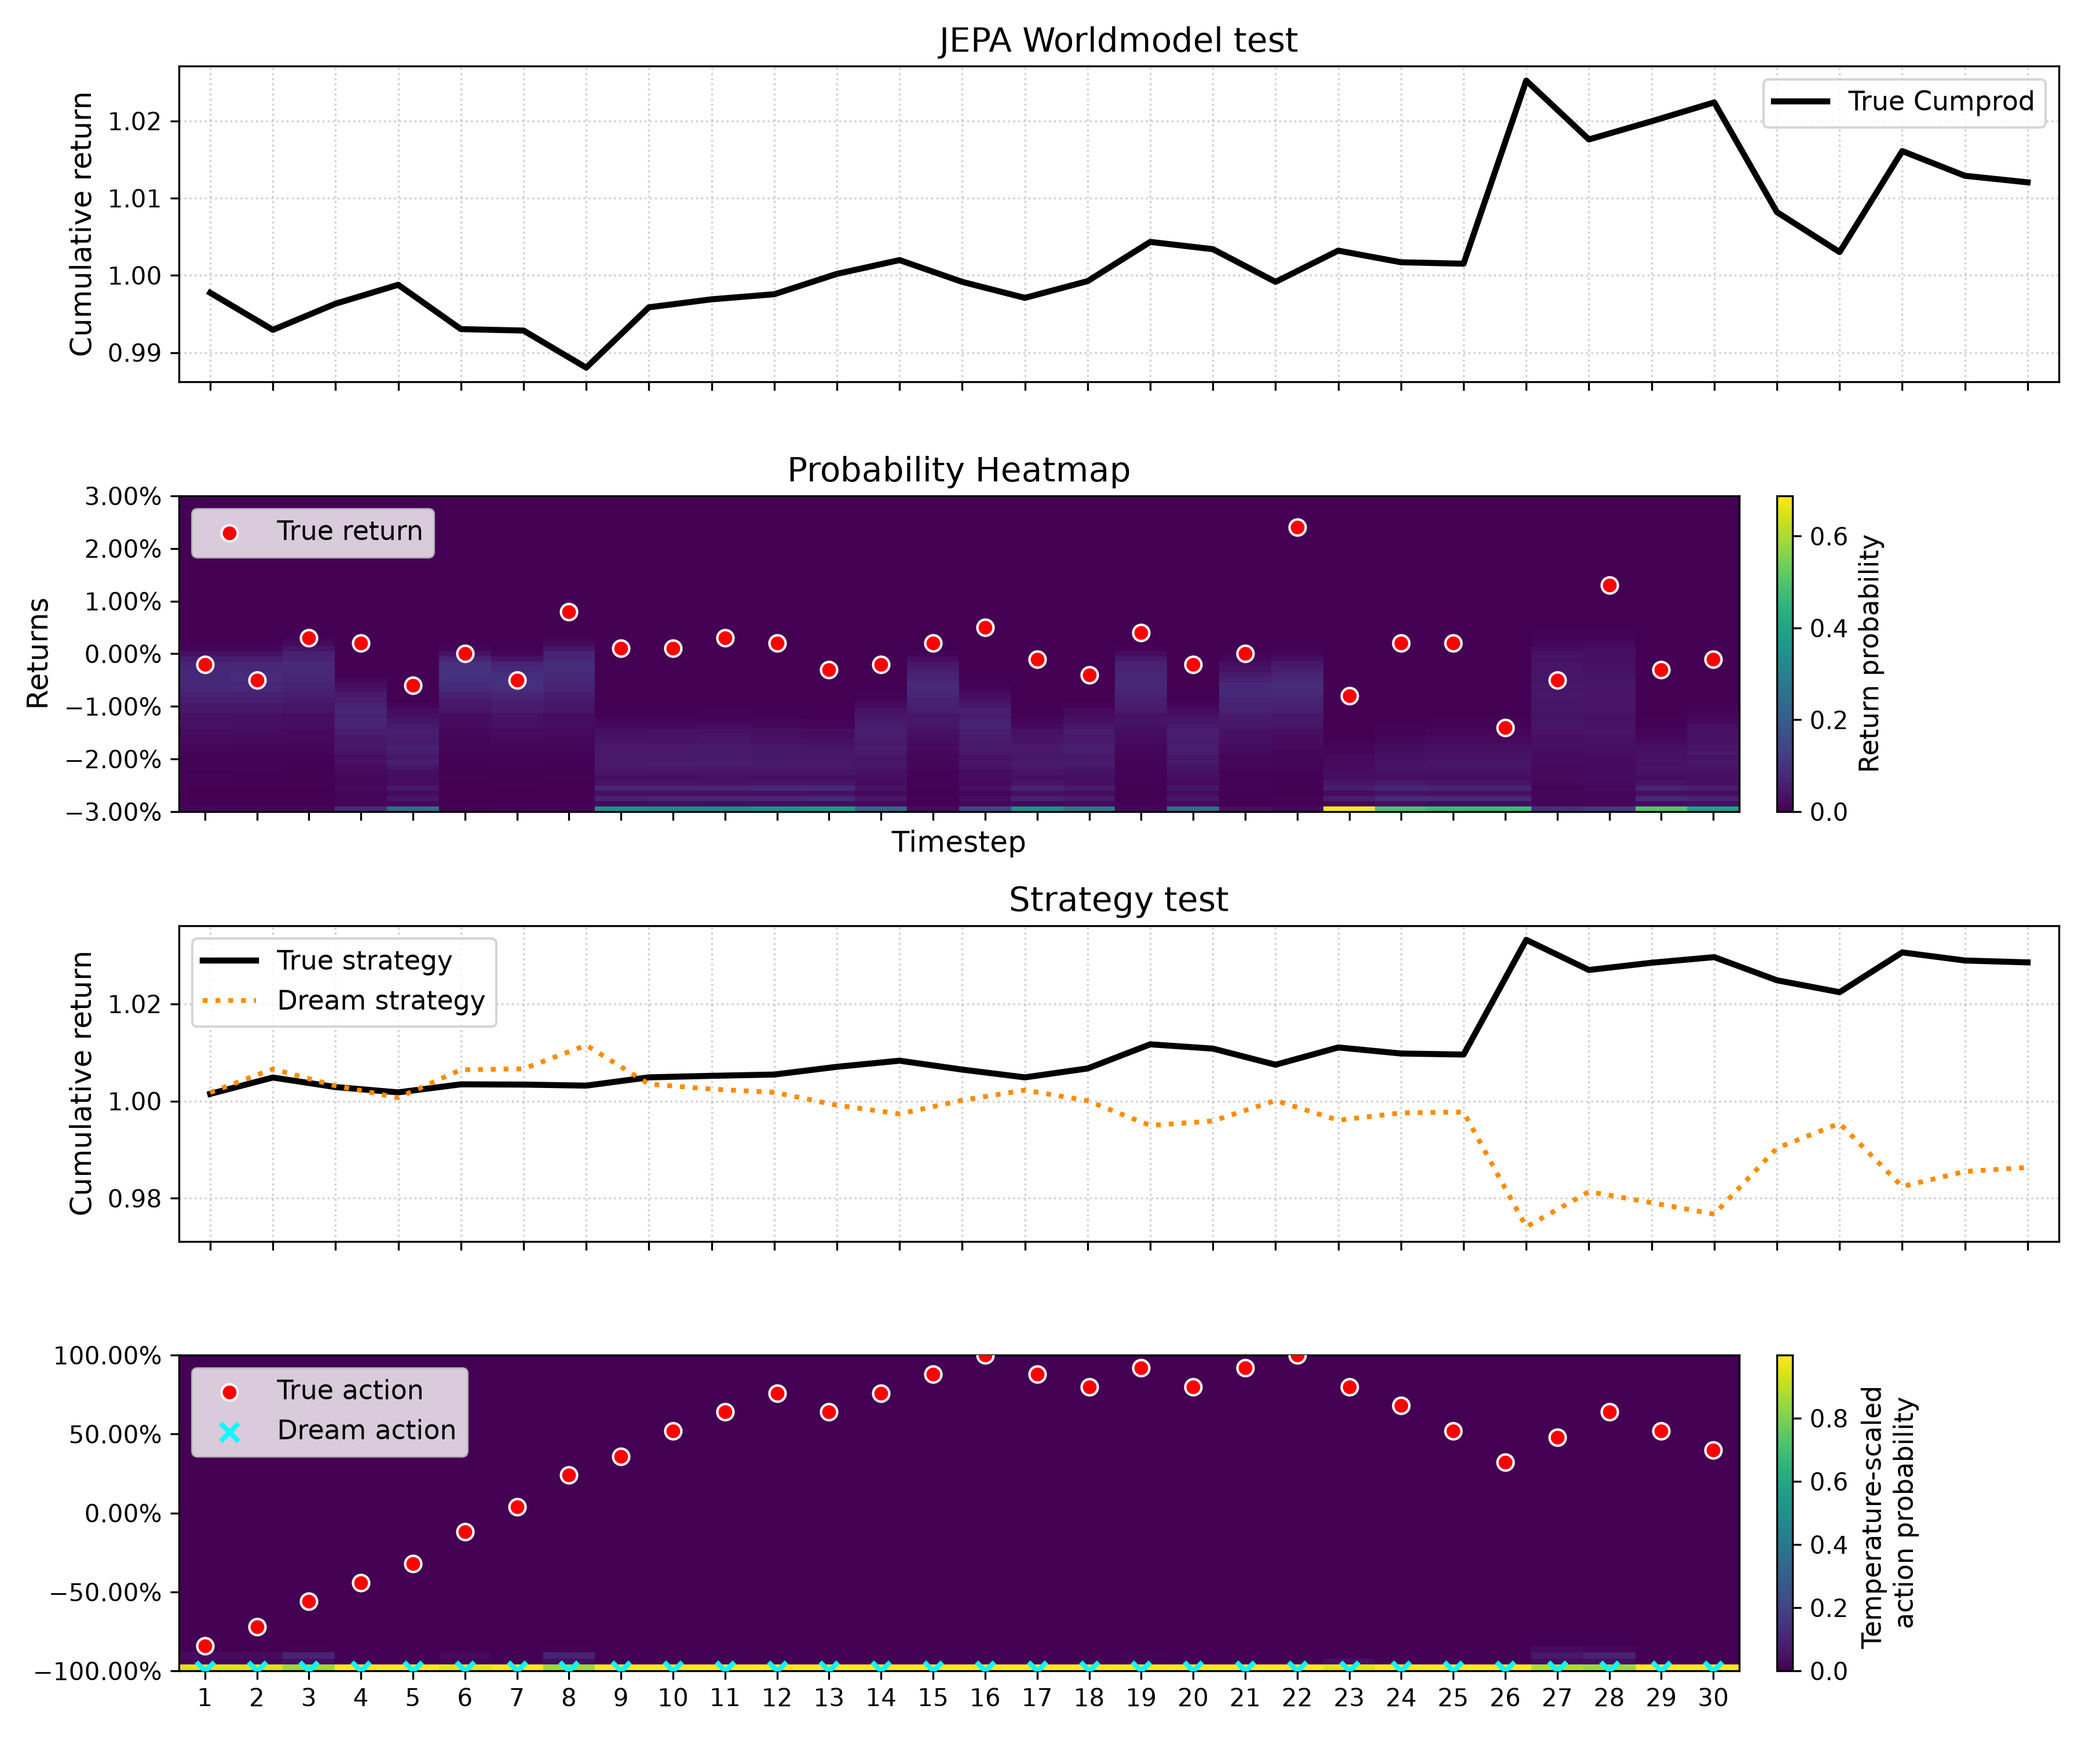
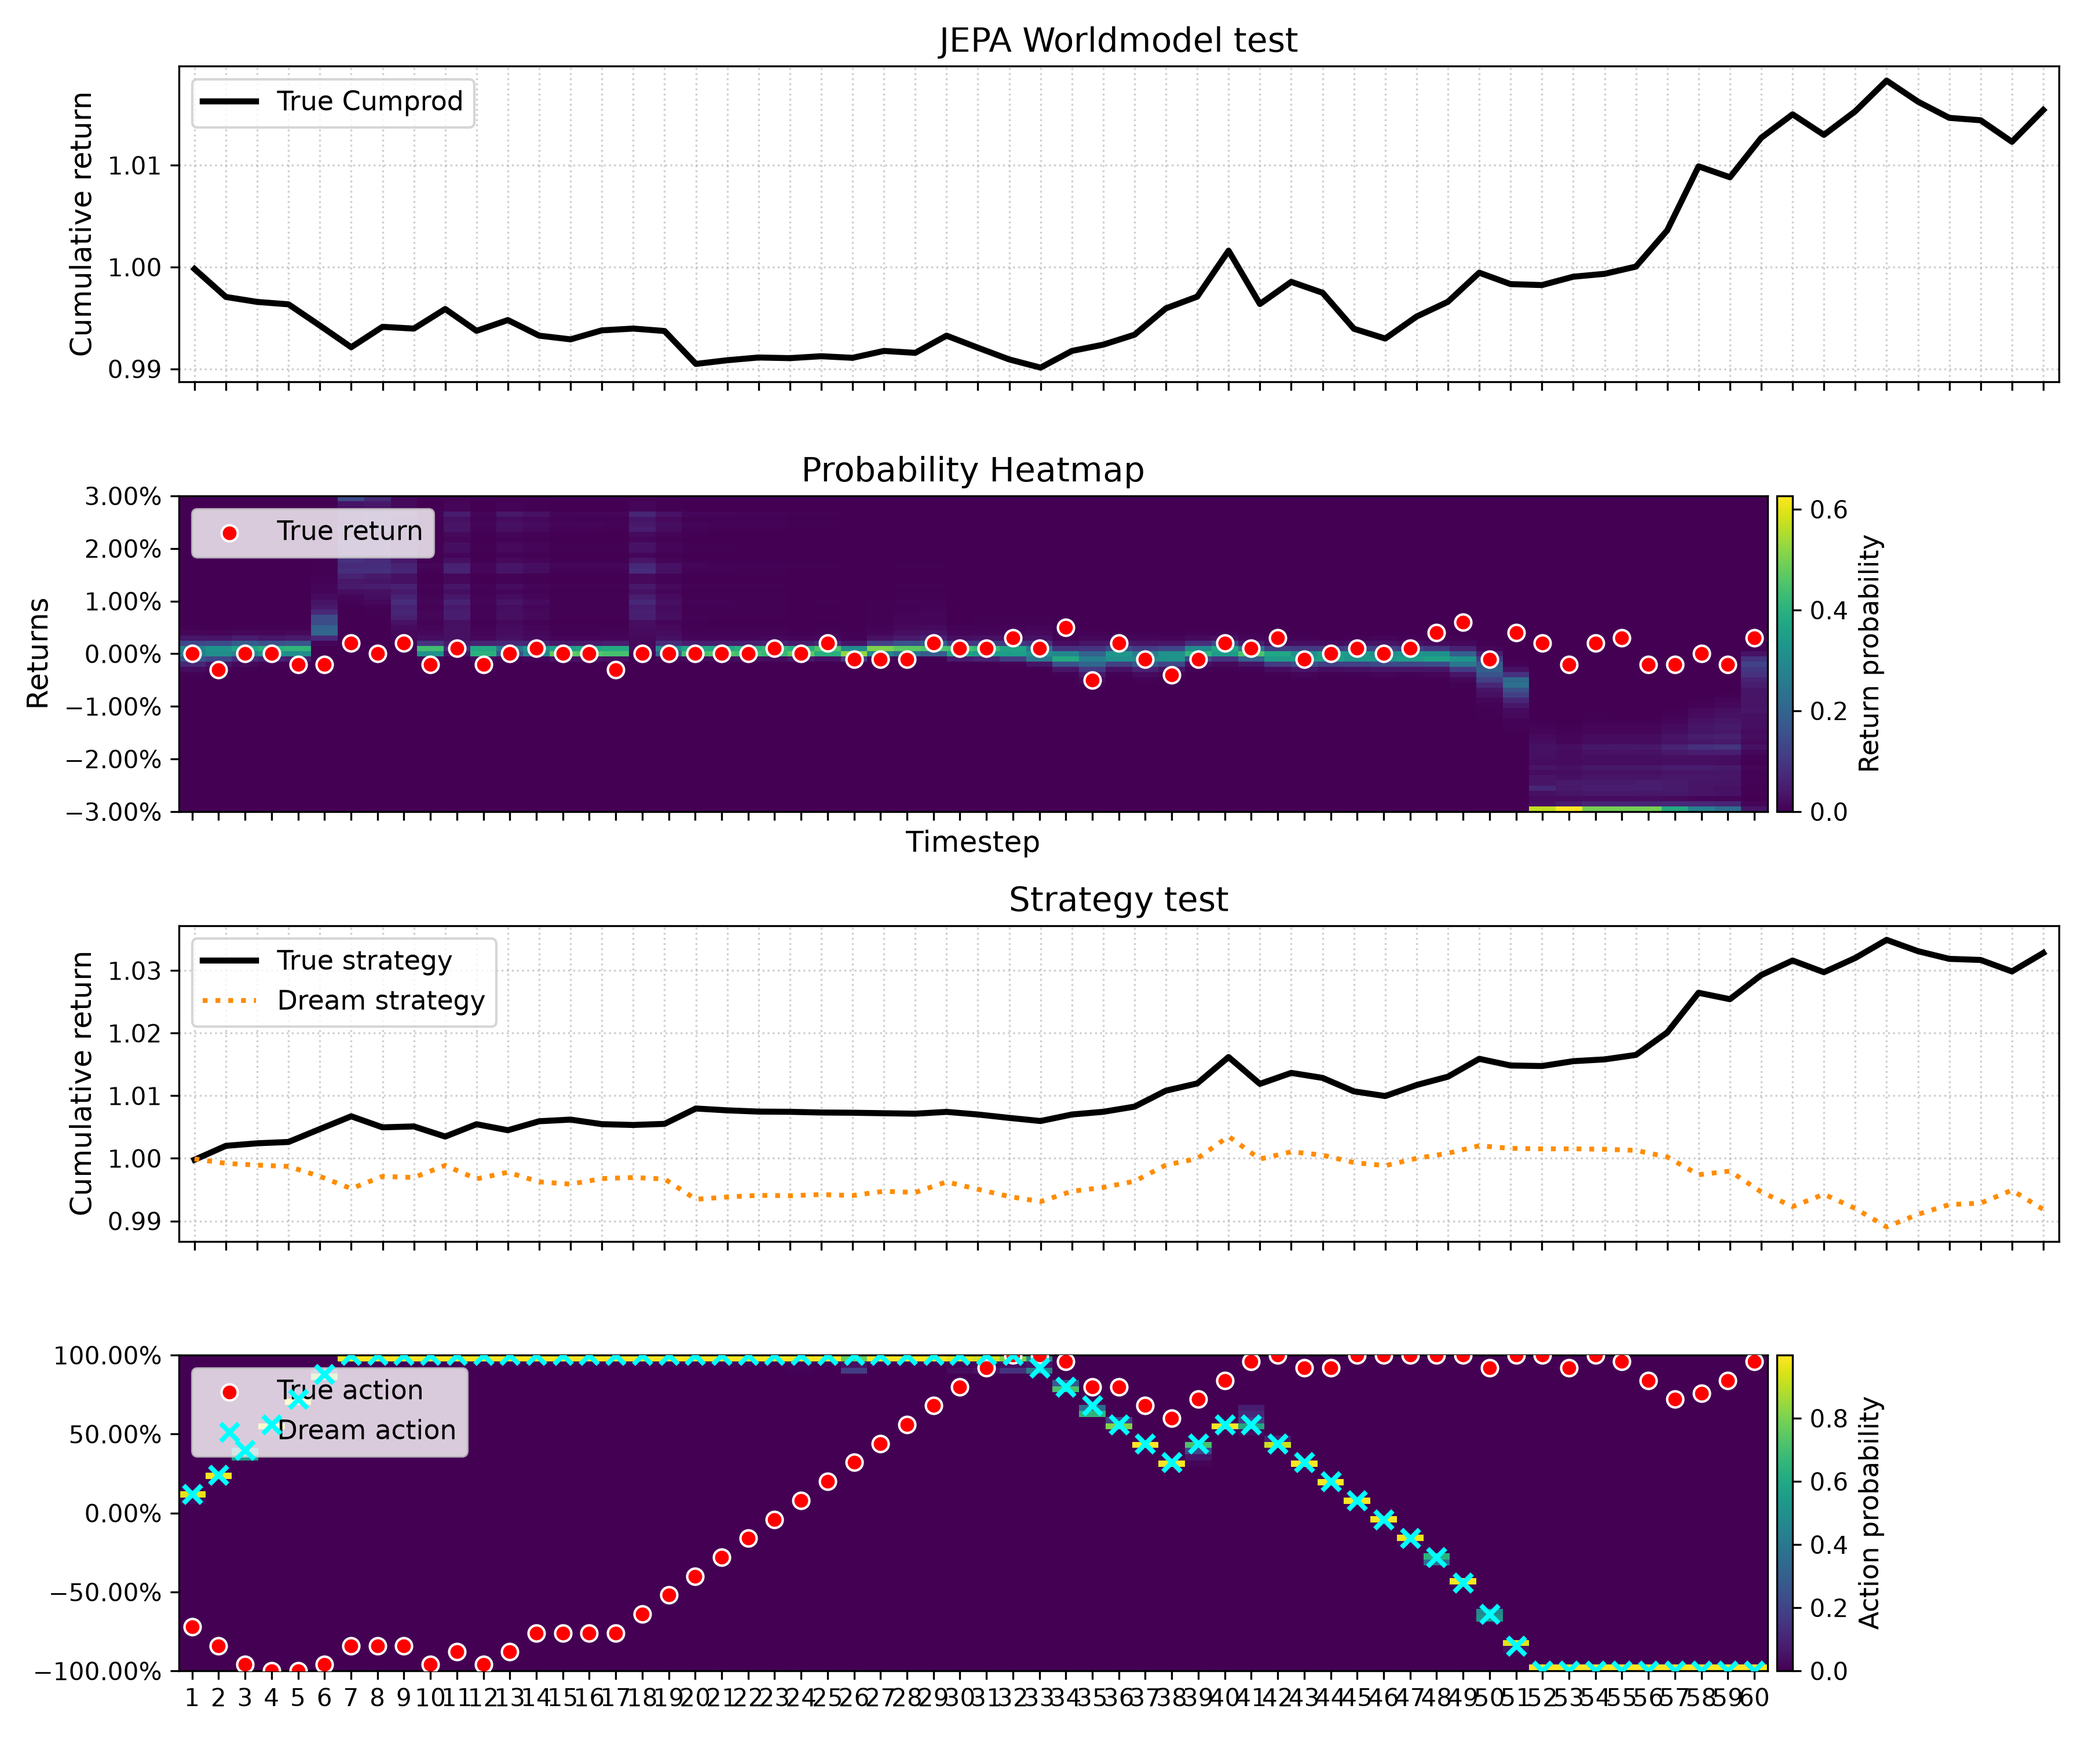
Updates

diff --git a/src/main.py b/src/main.py
@@ -2,6 +2,7 @@ import lightning as L
 import wandb
 import argparse
 import logging
+import os
 from omegaconf import OmegaConf
 from lightning.pytorch.loggers import WandbLogger
 from torch.utils.data import DataLoader
@@ -12,56 +13,85 @@ from jepa import JEPA, JEPA_AR
 from data import CryptoDataset
 from util import set_logger
 
-def pre_train(cfg):
+def pre_train(cfg, resume=False):
     load_dotenv()
     wandb.login()
 
     logger = logging.getLogger(cfg['experiment_name'])
     logger.info('Starting JEPA training')
 
-    train_dataset = CryptoDataset(cfg, mode = 'training')
-    val_dataset = CryptoDataset(cfg, mode = 'validation')
+    train_dataset = CryptoDataset(cfg, mode='training')
+    val_dataset = CryptoDataset(cfg, mode='validation')
 
-    train_loader = DataLoader(train_dataset, 
-                              batch_size = cfg['jepa']['training']['batch_size'],
-                              shuffle = True,
-                              num_workers = 3)
-    val_loader = DataLoader(val_dataset, 
-                              batch_size = cfg['jepa']['training']['batch_size'],
-                              shuffle = False,
-                              num_workers = 3)
-    
+    train_loader = DataLoader(
+        train_dataset,
+        batch_size=cfg['jepa']['training']['batch_size'],
+        shuffle=True,
+        num_workers=3,
+        persistent_workers=True,
+    )
+
+    val_loader = DataLoader(
+        val_dataset,
+        batch_size=cfg['jepa']['training']['batch_size'],
+        shuffle=False,
+        num_workers=3,
+        persistent_workers=True,
+    )
+
     model = JEPA(cfg)
     logger.info(f'Model architecture: {model}')
 
     wandb_logger = WandbLogger(
-            entity='rudyhuy',
-            project='jepa',
-            name=cfg['jepa']['name'],
-        )    
+        entity='rudyhuy',
+        project='jepa',
+        name=cfg['jepa']['name'],
+    )
+
+    checkpoint_dir = f"./models/jepa/{cfg['jepa']['name']}/"
 
     checkpoint_callback = ModelCheckpoint(
-        dirpath=f"./models/jepa/{cfg['jepa']['name']}/", 
+        dirpath=checkpoint_dir,
         filename="jepa",
         monitor="val/loss",
         mode="min",
         save_top_k=1,
-        save_last=True
+        save_last=True,
     )
 
     lr_monitor = LearningRateMonitor(logging_interval='step')
 
     trainer = L.Trainer(
-        max_epochs = cfg['jepa']['training']['epochs'],
-        accelerator = "auto", 
-        devices = "auto",
-        gradient_clip_val = 1.0,
-        logger = wandb_logger,
-        callbacks = [checkpoint_callback, lr_monitor],
-        log_every_n_steps = cfg['jepa']['training']['log_every_n_steps']
+        max_epochs=cfg['jepa']['training']['epochs'],
+        accelerator="auto",
+        devices="auto",
+        gradient_clip_val=1.0,
+        logger=wandb_logger,
+        callbacks=[checkpoint_callback, lr_monitor],
+        log_every_n_steps=cfg['jepa']['training']['log_every_n_steps'],
     )
 
-    trainer.fit(model, train_dataloaders=train_loader, val_dataloaders=val_loader)
+    # Resume from the last checkpoint if requested
+    ckpt_path = None
+
+    if resume:
+        ckpt_path = f"{checkpoint_dir}/last.ckpt"
+
+        if not os.path.exists(ckpt_path):
+            logger.warning(
+                f"Resume requested, but checkpoint does not exist: {ckpt_path}"
+            )
+            ckpt_path = None
+        else:
+            logger.info(f"Resuming training from: {ckpt_path}")
+
+    trainer.fit(
+        model,
+        train_dataloaders=train_loader,
+        val_dataloaders=val_loader,
+        ckpt_path=ckpt_path,
+    )
+
 
 def ar_train(cfg):
     load_dotenv()
@@ -104,7 +134,7 @@ def ar_train(cfg):
     lr_monitor = LearningRateMonitor(logging_interval='step')
 
     trainer = L.Trainer(
-        max_epochs = cfg['jepa']['training']['epochs'],
+        max_epochs = cfg['jepa']['ar_training']['epochs'],
         accelerator = "auto", 
         devices = "auto",
         gradient_clip_val = 1.0,
@@ -130,15 +160,19 @@ def main():
         choices=["pre-train", "ar-train"],
         help="Vælg 'pre-train' for initial træning eller 'ar-train' for post-træning.",
     )
+    parser.add_argument(
+        "--resume",
+        action="store_true",
+        help="Resume training from the last checkpoint.",
+    )
 
     args = parser.parse_args()
 
     if args.mode == "pre-train":
-        pre_train(cfg)
+        pre_train(cfg, resume=args.resume)
 
     elif args.mode == "ar-train":
         ar_train(cfg)
-
 
 if __name__ == "__main__":
     main()

diff --git a/src/jepa.py b/src/jepa.py
@@ -233,8 +233,7 @@ class JEPA(L.LightningModule):
 
         Z_prompt = Z[:, :start_idx+1, :]
         Ret_prompt = Ret[:, :start_idx+1, :]
-        Act_prompt = optimal_allocation(Ret_prompt.squeeze(-1), commission_value)
-        Act_prompt = Act_prompt[:, 1:].detach().unsqueeze(-1)
+        Act_prompt = torch.full((B, start_idx+1, 1), 0.0, dtype=Z_prompt.dtype, device=Z_prompt.device)
 
         Z_prompt = truncate(Z_prompt, self.predictor.max_len)
         Ret_prompt = truncate(Ret_prompt, self.predictor.max_len)
@@ -244,17 +243,17 @@ class JEPA(L.LightningModule):
             Z_next, ret_logits, act_logits = self.predict(Z_prompt, Ret_prompt, Act_prompt)
 
             new_Z = Z_next[:, -1:, :]
-            ret_logits = ret_logits[:, -1:, :] 
-            act_logits = act_logits[:, -1:, :]
+            ret_logits = ret_logits[:, -1:, :].squeeze(1)
+            act_logits = act_logits[:, -1:, :].squeeze(1)
 
-            ret_logits = ret_logits.squeeze(0).squeeze(0)
             ret_probs = torch.softmax(ret_logits, dim=-1)
-            new_ret = Ret[:, start_idx+t+1, :].unsqueeze(1)
+            new_ret = Ret[:, start_idx+t+1, :].unsqueeze(-1)
 
-            act_logits = act_logits.squeeze(0).squeeze(0) / act_temperature
+            act_logits = act_logits / act_temperature
             act_probs = torch.softmax(act_logits, dim=-1)
+
             act_sampled_idx = torch.multinomial(act_probs, num_samples=1)
-            new_act = self.action_bins[act_sampled_idx].unsqueeze(0).unsqueeze(0)
+            new_act = self.action_bins[act_sampled_idx].unsqueeze(-1)
 
             Z_prompt = torch.cat([Z_prompt, new_Z], dim=1)
             Ret_prompt = torch.cat([Ret_prompt, new_ret], dim=1)
@@ -300,6 +299,7 @@ class JEPA(L.LightningModule):
 
 class JEPA_AR(JEPA):
     def training_step(self, batch, batch_idx):
+        horizon = 5#self.AR_horizon
         X = batch['sample']
         Ret, Ret_target = batch['return'], batch['return_target']
         Act, Act_target = batch['action'], batch['action_target']
@@ -307,13 +307,13 @@ class JEPA_AR(JEPA):
         Z = self.encode(X)
 
         Z_hat, ret_probs, _, act_probs, _ = self.backtest(
-            Z, Ret, horizon = self.AR_horizon, 
+            Z, Ret, horizon = horizon, 
             act_temperature = self.AR_action_temp, 
             commission_value = self.AR_com_val)
 
-        Z_target = Z[:, -self.AR_horizon:, :]
-        ret_target = Ret_target[:, -self.AR_horizon:, :]
-        act_target = Act_target[:, -self.AR_horizon:, :]
+        Z_target = Z[:, -horizon:, :]
+        ret_target = Ret_target[:, -horizon:, :]
+        act_target = Act_target[:, -horizon:, :]
 
         L_state = self.MSELoss(Z_hat, Z_target)
 
@@ -335,6 +335,7 @@ class JEPA_AR(JEPA):
         return L
     
     def validation_step(self, batch, batch_idx):
+        horizon = 5#self.AR_horizon
         X = batch['sample']
         Ret, Ret_target = batch['return'], batch['return_target']
         Act, Act_target = batch['action'], batch['action_target']
@@ -342,13 +343,13 @@ class JEPA_AR(JEPA):
         Z = self.encode(X)
 
         Z_hat, ret_probs, acts, act_probs, _ = self.backtest(
-            Z, Ret, horizon = self.AR_horizon, 
+            Z, Ret, horizon = horizon, 
             act_temperature = self.AR_action_temp, 
             commission_value = self.AR_com_val)
 
-        Z_target = Z[:, -self.AR_horizon:, :]
-        ret_target = Ret_target[:, -self.AR_horizon:, :]
-        act_target = Act_target[:, -self.AR_horizon:, :]
+        Z_target = Z[:, -horizon:, :]
+        ret_target = Ret_target[:, -horizon:, :]
+        act_target = Act_target[:, -horizon:, :]
 
         L_state = self.MSELoss(Z_hat, Z_target)
 
@@ -371,7 +372,8 @@ class JEPA_AR(JEPA):
         b_a = acts.detach()
         act0 = torch.full((B, 1, 1), 0.0, dtype=b_a.dtype, device=b_a.device)
         b_a = torch.cat((act0, b_a), dim=1).squeeze(-1)
-        _, E = equity(b_a, ret_target, commission_value)
+        b_r = Ret[:, -horizon:, :].squeeze(-1)
+        _, E = equity(b_a, b_r, c=self.AR_com_val)
         E = torch.mean(E)
         self.log('val/mean_equity', E, on_step=False, on_epoch=True, prog_bar=True)
 

diff --git a/src/test_jepa.py b/src/test_jepa.py
@@ -124,7 +124,7 @@ def plot_dream(t_steps, dplot_dict, cfg, i, figure_name):
     ax2.set_xticks(t_steps)
     ax2.yaxis.set_major_formatter(mtick.PercentFormatter(1.0, decimals=2)) 
     ax2.legend(fontsize=11, loc='upper left')
-    cbar = fig.colorbar(im1, ax=ax2, orientation='vertical', pad=0.02)
+    cbar = fig.colorbar(im1, ax=ax2, orientation='vertical', pad=0.005)
     cbar.set_label('Return probability', fontsize=11)
 
     # ax3 subplot
@@ -142,8 +142,8 @@ def plot_dream(t_steps, dplot_dict, cfg, i, figure_name):
     ax4.scatter(t_steps, dplot_dict['d_act_vals'], color='cyan', marker='x', s=55, linewidths=2, label='Dream action', zorder=6)
     ax4.yaxis.set_major_formatter(mtick.PercentFormatter(1.0, decimals=2)) 
     ax4.legend(fontsize=11, loc='upper left')
-    cbar = fig.colorbar(im2, ax=ax4, orientation='vertical', pad=0.02)
-    cbar.set_label('Temperature-scaled \naction probability', fontsize=11)
+    cbar = fig.colorbar(im2, ax=ax4, orientation='vertical', pad=0.005)
+    cbar.set_label('Action probability', fontsize=11)
 
     plt.tight_layout()
 
@@ -159,9 +159,9 @@ def backtest_output_wrapper(backtest_output):
 
     return {
         'b_state' : b_state,
-        'b_ret_probs' : b_ret_probs,
+        'b_ret_probs' : b_ret_probs.squeeze(),
         'b_act' : b_act,
-        'b_act_probs' : b_act_probs,
+        'b_act_probs' : b_act_probs.squeeze(),
         'b_act_idx' : b_act_idx
     }
 
@@ -213,7 +213,7 @@ def plot_backtest(t_steps, bplot_dict, cfg, i, figure_name):
     ax2.set_xticks(t_steps)
     ax2.yaxis.set_major_formatter(mtick.PercentFormatter(1.0, decimals=2)) 
     ax2.legend(fontsize=11, loc='upper left')
-    cbar = fig.colorbar(im1, ax=ax2, orientation='vertical', pad=0.02)
+    cbar = fig.colorbar(im1, ax=ax2, orientation='vertical', pad=0.005)
     cbar.set_label('Return probability', fontsize=11)
 
     # ax3 subplot
@@ -231,8 +231,8 @@ def plot_backtest(t_steps, bplot_dict, cfg, i, figure_name):
     ax4.scatter(t_steps, bplot_dict['b_act_vals'], color='cyan', marker='x', s=55, linewidths=2, label='Dream action', zorder=6)
     ax4.yaxis.set_major_formatter(mtick.PercentFormatter(1.0, decimals=2)) 
     ax4.legend(fontsize=11, loc='upper left')
-    cbar = fig.colorbar(im2, ax=ax4, orientation='vertical', pad=0.02)
-    cbar.set_label('Temperature-scaled \naction probability', fontsize=11)
+    cbar = fig.colorbar(im2, ax=ax4, orientation='vertical', pad=0.005)
+    cbar.set_label('Action probability', fontsize=11)
 
     plt.tight_layout()
 
@@ -241,8 +241,8 @@ def plot_backtest(t_steps, bplot_dict, cfg, i, figure_name):
 
 if __name__ == '__main__':
     ####### CONTROL PARAMETERS #######
-    batch_size = 10
-    horizon = 30
+    batch_size = 20
+    horizon = 32
     ret_temperature = 1.0 
     act_temperature = 1.0
     ##################################
